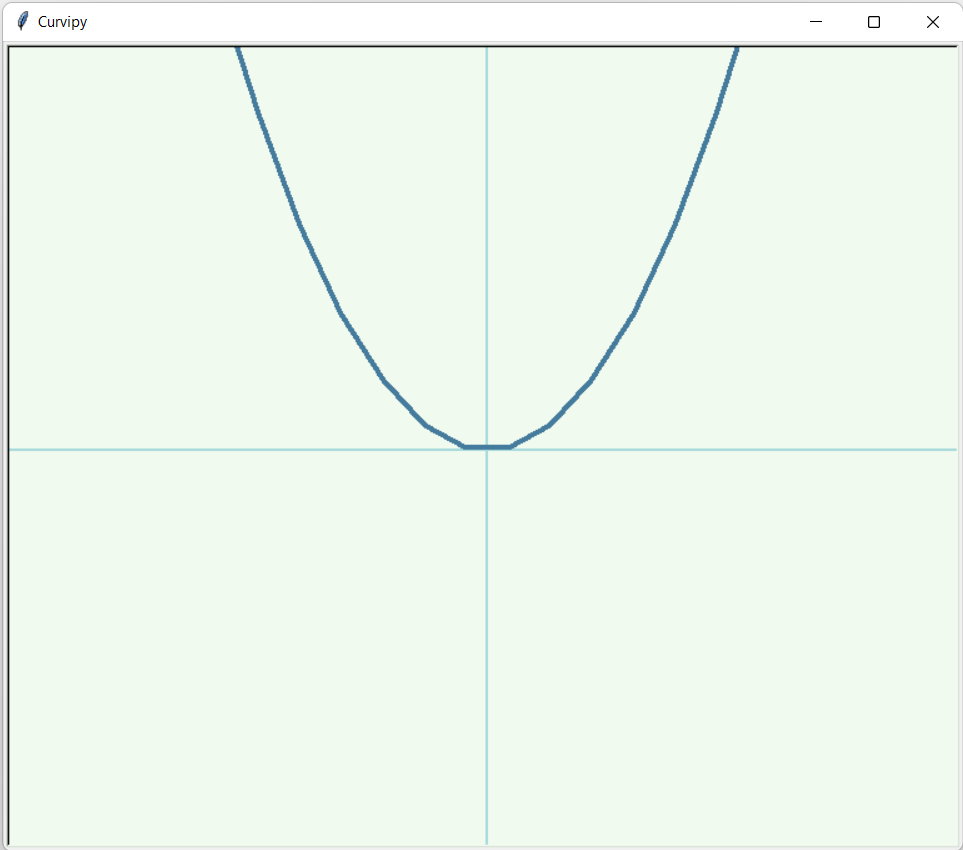
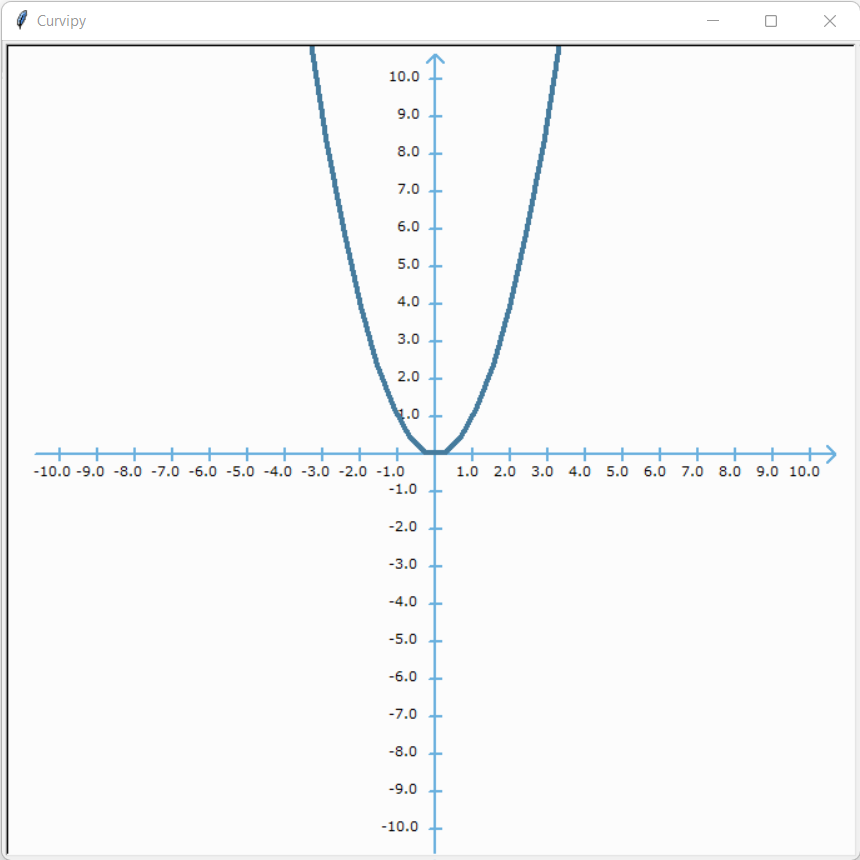
Update docs GIFs #19
To improve quality, gifs were replaced with png images.

diff --git a/README.md b/README.md
@@ -25,6 +25,10 @@ A function has been translated when it has been moved in a way that does not cha
 
 To visualize translations, we will use the function $f(x) = x^{2}$.
 
+<p align="center">
+  <img width="500" height="500" src="docs/source/img/function_x_squared.png">
+</p>
+
 ```python
 import curvipy
 
@@ -40,14 +44,13 @@ plotter.plot_curve(curve)
 plotter.wait()
 ```
 
-<p align="center">
-  <img width="500" height="500" src="docs/source/img/function_x_squared.png">
-</p>
-
-
 ### Horizontal Translation
 
 In a horizontal translation, the function is moved along the x-axis.
+
+<p align="center">
+  <img width="500" height="500" src="docs/source/img/horizontal_translation.png">
+</p>
 
 ```python
 import curvipy
@@ -80,13 +83,13 @@ plotter.plot_curve(curvipy.Function(m, interval))
 plotter.wait()
 ```
 
-<p align="center">
-  <img width="500" height="500" src="docs/source/img/horizontal_translation.gif">
-</p>
-
 ### Vertical Translation
 
 In a horizontal translation, the function is moved along the y-axis.
+
+<p align="center">
+  <img width="500" height="500" src="docs/source/img/vertical_translation.png">
+</p>
 
 ```python
 import curvipy
@@ -117,10 +120,6 @@ plotter.plot_curve(curvipy.Function(m, interval))
 
 plotter.wait()
 ```
-
-<p align="center">
-  <img width="500" height="500" src="docs/source/img/vertical_translation.gif">
-</p>
 
 ## Linear transformations
 
@@ -154,6 +153,10 @@ $$
 
 transforms the function $f(x) =\frac{x}{2}\sin(x)$.
 
+<p align="center">
+  <img width="500" height="500" src="docs/source/img/transformation_matrix.png">
+</p>
+
 ```python
 import math
 import curvipy
@@ -180,10 +183,6 @@ plotter.plot_curve(transformed_curve)
 plotter.wait()
 ```
 
-<p align="center">
-  <img width="500" height="500" src="docs/source/img/transformation_matrix.gif">
-</p>
-
 As you can see above, the matrix $A$ rotates the function $f(x)$ ninety degree anticlockwise.
 
 **Note:**  `curvipy.TransformedCurve`
@@ -208,6 +207,10 @@ A =
 $$
 
 and see how they transform the curve $f(x) = x^{3}$.
+
+<p align="center">
+  <img width="500" height="500" src="docs/source/img/mat_multiplication_commutative_property.png">
+</p>
 
 ```python
 import curvipy
@@ -241,10 +244,6 @@ plotter.plot_curve(BA_transformed_curve)
 
 plotter.wait()
 ```
-
-<p align="center">
-  <img width="500" height="500" src="docs/source/img/mat_multiplication_commutative_property.gif">
-</p>
 
 As you can see above, transforming $f(x)$ with the matrix $AB$ gives a different result as transforming $f(x)$ with the matrix $BA$.
 

diff --git a/docs/source/introduction.md b/docs/source/introduction.md
@@ -25,6 +25,8 @@ A function has been translated when it has been moved in a way that does not cha
 
 To visualize translations, we will use the function {math}`f(x) = x^{2}`.
 
+![image](img/function_x_squared.png){width="500px" align=center}
+
 ```python
 import curvipy
 
@@ -40,11 +42,11 @@ plotter.plot_curve(curve)
 plotter.wait()
 ```
 
-![image](img/function_x_squared.png){width="500px" align=center}
-
 ### Horizontal Translation
 
 In a horizontal translation, the function is moved along the x-axis.
+
+![image](img/horizontal_translation.png){width="500px" align=center}
 
 ```python
 import curvipy
@@ -77,11 +79,11 @@ plotter.plot_curve(curvipy.Function(m, interval))
 plotter.wait()
 ```
 
-![image](img/horizontal_translation.gif){width="500px" align=center}
-
 ### Vertical Translation
 
 In a horizontal translation, the function is moved along the y-axis.
+
+![image](img/vertical_translation.png){width="500px" align=center}
 
 ```python
 import curvipy
@@ -112,8 +114,6 @@ plotter.plot_curve(curvipy.Function(m, interval))
 
 plotter.wait()
 ```
-
-![image](img/vertical_translation.gif){width="500px" align=center}
 
 ## Linear transformations
 
@@ -149,6 +149,8 @@ A = \begin{bmatrix}0 & -1\\1 & 0\end{bmatrix}
 
 transforms the function {math}`f(x) =\frac{x}{2}\sin(x)`.
 
+![image](img/transformation_matrix.png){width="500px" align=center}
+
 ```python
 import math
 import curvipy
@@ -175,8 +177,6 @@ plotter.plot_curve(transformed_curve)
 plotter.wait()
 ```
 
-![image](img/transformation_matrix.gif){width="500px" align=center}
-
 As you can see above, the matrix {math}`A` rotates the function {math}`f(x)` ninety degree anticlockwise.
 
 ```{note} 
@@ -195,6 +195,8 @@ A = \begin{bmatrix}0 & -1\\1 & 0\end{bmatrix} \text{and } B =\begin{bmatrix}1 & 
 ```
 
 and see how they transform the curve {math}`f(x) = x^{3}`.
+
+![image](img/mat_multiplication_commutative_property.png){width="500px" align=center}
 
 ```python
 import curvipy
@@ -228,8 +230,6 @@ plotter.plot_curve(BA_transformed_curve)
 
 plotter.wait()
 ```
-
-![image](img/mat_multiplication_commutative_property.gif){width="500px" align=center}
 
 As you can see above, transforming {math}`f(x)` with the matrix {math}`AB` gives a different result as transforming {math}`f(x)` with the matrix {math}`BA`.
 
